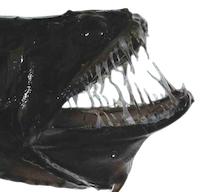
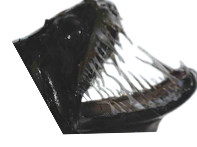
updates

diff --git a/assets/css/custom.css b/assets/css/custom.css
@@ -35,9 +35,9 @@ body .owl-nav>div {
 
 #background {
     width:100px;
-    height:100px;
-    left: 150px;
-    top: 350px;
+    height:auto;
+    left: 200px;
+    top: 400px;
     z-index: -1;
     opacity: 0.2;
     position: absolute;
